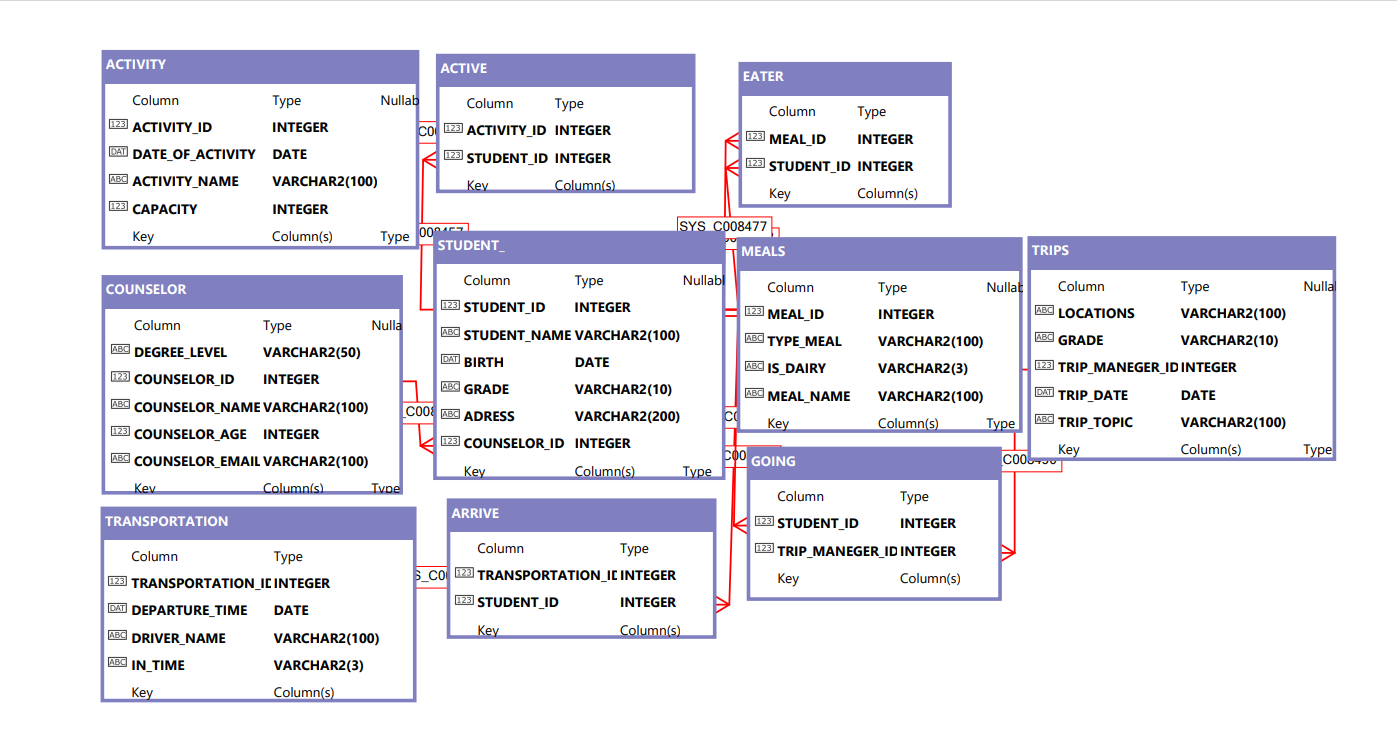
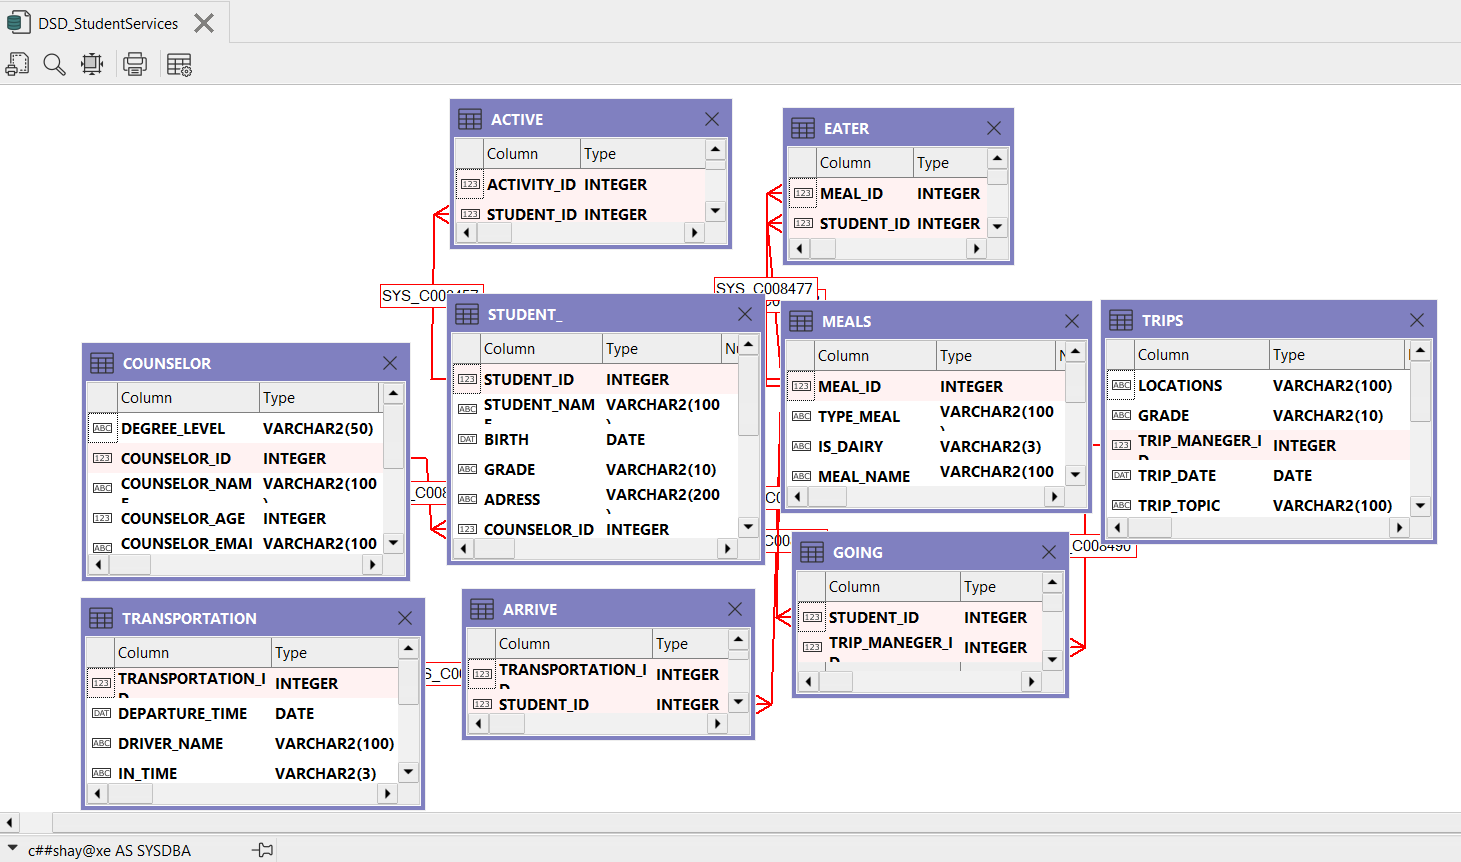
updates

diff --git a/Stage.4/README.md b/Stage.4/README.md
@@ -8,20 +8,58 @@
 
 ## Stage 4:
 
-1. **School**
+We chose to integrate with the student services department
 
-DSD before integration: ![alt text](DSD/DSD_from_backup.png)
+1. **Part 1** - Reverse Engineering:
 
-ERD: ![alt text](ERD/ERD_from_backup.png)
+DSD before integration: ![alt text](https://github.com/shay0129/DBProject_315689042_314695438/blob/main/Stage.4/DSD/DSD_from_backup.png)
+
+ERD: ![alt text](https://github.com/shay0129/DBProject_315689042_314695438/blob/main/Stage.4/ERD/ERD_from_backup.png)
+
+---
+
+At this stage, we used an automatic PL/SQL tool to create a Data Structure (DS) Diagram from the backup of the table creation scripts. The algorithm we used for generating the ERD is described below:
+
+---
+
+1. **Create Table (`create_table`)**:
+   - **Action**: Create an entity in the ERD.
+   - **Explanation**: When a table is created, it represents a new entity in the diagram.
+
+2. **Alter Table (`alter_table`)**:
+   - **Action**: Create a connector in the ERD.
+   - **Explanation**: When a table is altered, it typically means an existing entity's structure is modified, which might affect the relationships or constraints of the entity.
+
+3. **Alter Table with Foreign Key (`alter table` with `add foreign key`)**:
+   - **Action**: Create a "one to many" relationship.
+   - **Explanation**: Adding a foreign key establishes a relationship between two entities:
+     - **One-Side**: The entity that includes the foreign key.
+     - **Many-Side**: The entity being referenced by the foreign key.
+   - **Additional Action**: If a table (entity) referenced by the foreign key does not already exist in the ERD, it should be added.
+
+Example Explained
+```sql
+alter table STUDENT_
+  add foreign key (COUNSELOR_ID)
+  references COUNSELOR (COUNSELOR_ID);
+```
+
+- **STUDENT_** is the table being altered, and it includes a foreign key `COUNSELOR_ID`.
+- **COUNSELOR** is the table being referenced.
+
+**Actions**:
+- **STUDENT_**: Create or modify an existing entity in the ERD to reflect the addition of `COUNSELOR_ID` as a foreign key.
+- **COUNSELOR**: Ensure this entity exists in the ERD as it is being referenced.
+- **Relationship**: Establish a "one to many" relationship where:
+  - **One-Side**: **COUNSELOR** (one counselor can be associated with many students).
+  - **Many-Side**: **STUDENT_** (many students can have one counselor).
+
+2. **Part 2** - Integrated:
 
 
+DSD after integration: ![alt text](https://github.com/shay0129/DBProject_315689042_314695438/blob/main/Stage.4/DSD/DSD_integrated.png)
 
-2. **Integrated**
-
-
-DSD after integration: ![alt text](DSD/DSD_integrated.png)
-
-ERD: ![alt text](ERD/ERD_integrated.png)
+ERD: ![alt text](https://github.com/shay0129/DBProject_315689042_314695438/blob/main/Stage.4/ERD/ERD_integrated.png)
 
 
 integration decisions:
@@ -30,7 +68,7 @@ integration decisions:
 
 פקודות sql לביצוע האינטגרציה:
 
-
+אם המפתח נמצא בטבלה אחרת, אני מבין שזה יחיד לרבים חץ עגול. אם יש ישות חלשה זה הופך להיות מפתח, לא קורה פה. היחיד זה הסטודנט והיועץ רבים, לפי זה שיש מפתח זר של יועץ בתוך סטודנט.
 
 
 הסבר מילולי של התהליך והפקודות

diff --git a/Stage.3/README.md b/Stage.3/README.md
@@ -78,7 +78,7 @@ END calculate_budget_total;
 
 קוד:
 ```sql
-CREATE OR REPLACE NONEDITIONABLE PROCEDURE list_budget_items(
+CREATE OR REPLACE PROCEDURE list_budget_items(
     p_employee_id NUMBER,
     p_budget_year NUMBER
 )
@@ -174,7 +174,7 @@ END;
 
 קוד:
 ```sql
-CREATE OR REPLACE NONEDITIONABLE FUNCTION get_payments_in_period(
+CREATE OR REPLACE FUNCTION get_payments_in_period(
        start_date DATE,
        end_date DATE
 )
@@ -201,7 +201,7 @@ END get_payments_in_period;
 
 קוד:
 ```sql
-CREATE OR REPLACE NONEDITIONABLE PROCEDURE display_payments(
+CREATE OR REPLACE PROCEDURE display_payments(
        start_date DATE,
        end_date DATE
 )
